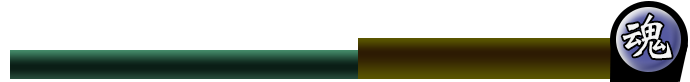
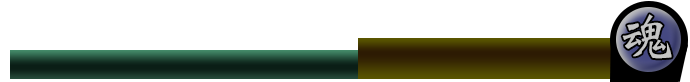
add hun  for completed song

Changed region(s): [[0.8826, 0.0732, 1.0, 0.878], [0.9739, 0.7073, 1.0, 0.7317]]

diff --git a/web/src/js/game/view/gauge.js b/web/src/js/game/view/gauge.js
@@ -15,6 +15,12 @@ var Layout = {
         length: 0.3,
         move: 0.05,
     },
+    hun: {
+        left: 1146 / 1280,
+        top: 105 / 720,
+        width: (1229 - 1146) / 1280,
+        height: (187 - 105) / 720,
+    },
 };
 
 
@@ -29,6 +35,7 @@ export class Gauge {
         await this.sticker.loadTexture('fill2', '/assets/img/gauge-fill-2.png');
         await this.sticker.loadTexture('fill3', '/assets/img/gauge-fill-3.png');
         await this.sticker.loadTexture('rainbow', '/assets/img/rainbow.png');
+        await this.sticker.loadTexture('hun', 'assets/img/hun.png');
     }
 
     render(delta) {
@@ -46,6 +53,11 @@ export class Gauge {
             return;
         }
 
+
+        this.sticker.stick(
+            'hun', 
+            Layout.hun.left, Layout.hun.top,
+            Layout.hun.width, Layout.hun.height);
 
         if (value < 50) {
             this.sticker.stick(

diff --git a/web/src/js/game/referee.js b/web/src/js/game/referee.js
@@ -71,6 +71,7 @@ export class Referee {
         if (this.state.play.balloon) {
             this.state.play.hitCount += 1;
             this.game.plotter.overlay.roll.update();
+            this.scorekeeper.scoreBalloon(key.ts);
             if (this.state.play.hitCount >= this.music.balloonCounts[this.index.balloon]) {
                 this.index.balloon += 1;
 

diff --git a/web/src/js/game/scorekeeper.js b/web/src/js/game/scorekeeper.js
@@ -137,6 +137,10 @@ export class Scorekeeper {
 
     }
 
+    scoreBalloon(ts) {
+        this.addScore(100 * this.gain, ts);
+    }
+
     scoreBalloonResult(type, ts) {
         if (type == JudgeResult.GOOD) {
             this.addScore(5000 * this.gain, ts);
